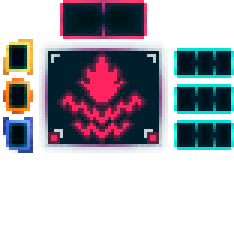
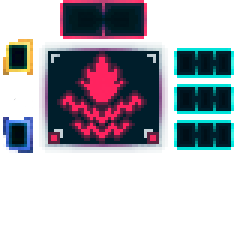
more bugs fixed and some images modified

Changed region(s): [[0.0, 0.3249, 0.1496, 0.5021]]

diff --git a/src/Views/Game.jsx b/src/Views/Game.jsx
@@ -113,7 +113,7 @@ export default function Game () {
     // Escenarios Nº7 ----------------------------------------------------------------------------------------------------------------------------------------
 
     const [scenario1] = useState(['Asset 7 n1 Fondo Completo.png', 'Asset 7 n1 Fondo scrolleable1.png', 'Asset 7 n1 Fondo scrolleable2.png', 'Asset 7 n1 Fondo Desplegables.png']);
-    const [scenario2] = useState(['Asset 7 n2 Fondo completo.png', 'Asset 7 n2 Fondo scrolleable1.png', 'Asset 7 n2 Fondo scrolleable2.png', 'Asset 7 n2 Fondo scrolleable3.png', 'Asset 7 n1 Fondo Desplegables.png']);
+    const [scenario2] = useState(['Asset 7 n2 Fondo completo.png', 'Asset 7 n2 Fondo scrolleable1.png', 'Asset 7 n2 Fondo scrolleable2.png', 'Asset 7 n2 Fondo scrolleable3.png', 'Asset 7 n1 Fondo Desplegables.png', "Asset 7 n2 Fondo.png"]);
     const [scenario3] = useState(['Asset 7 n3 Cinta superior.png', 'Asset 7 n3 Fondo scrolleable1.png', 'Asset 7 n3 Fondo scrolleable2.png', 'Asset 7 n3 Fondo scrolleable3.png', 'Asset 7 n3 Fondo scrolleable4.png', 'Asset 7 n3 Fondo scrolleable5.png', 'Asset 7 n3 Fondo scrolleable6.png', 'Asset 7 Barra de perfiles.png', 'Asset 7 n1 Fondo Desplegables.png']);
 
     const [scenarios] = useState([scenario1, scenario2, scenario3]);
@@ -354,6 +354,7 @@ export default function Game () {
     const [positionFromLeft5, setPositionFromLeft5] = useState(-1920);
     const [positionFromLeft6, setPositionFromLeft6] = useState(-1920);
     const [positionFromRight, setPositionFromRight] = useState(0);
+    const [positionFromRight2, setPositionFromRight2] = useState(0);
 
     useEffect(() => {
         const interval = setInterval(() => {
@@ -394,14 +395,20 @@ export default function Game () {
             }
 
             if (positionFromRight > -1920) {
-                setPositionFromRight(positionFromRight - 2);
+                setPositionFromRight(positionFromRight - 1);
             } else {
                 setPositionFromRight(0);
+            }
+
+            if (positionFromRight2 > -1920) {
+                setPositionFromRight2(positionFromRight2 - 2);
+            } else {
+                setPositionFromRight2(0);
             }
         }, 100);
 
         return () => clearInterval(interval);
-    }, [positionFromLeft1, positionFromLeft2, positionFromLeft3, positionFromLeft4, positionFromLeft5, positionFromLeft6, positionFromRight]);
+    }, [positionFromLeft1, positionFromLeft2, positionFromLeft3, positionFromLeft4, positionFromLeft5, positionFromLeft6, positionFromRight, positionFromRight2]);
 
     return (
         <div className='page-container' onMouseMove={changePosition} onClick={advanceArray}
@@ -442,7 +449,7 @@ export default function Game () {
                         style={{
                             position: 'absolute',
                             zIndex: '1',
-                            left: `${positionFromLeft1}px`
+                            left: `${positionFromRight}px`
                         }}
                     />
 
@@ -452,7 +459,7 @@ export default function Game () {
                         style={{
                             position: 'absolute',
                             zIndex: '2',
-                            left: `${positionFromRight}px`
+                            left: `${positionFromRight2}px`
                         }}
                     />
 
@@ -491,6 +498,16 @@ export default function Game () {
                         pointerEvents: 'none'
                     }}
                 >
+
+                    <img
+                        src={require('../Resources/Nº 7 Escenarios/'+scenarios[1][5])}
+                        alt='background22'
+                        style={{
+                            position: 'absolute',
+                            left: `0px`,
+                            zIndex: '0'
+                        }}
+                    />
 
                     <img
                         src={require('../Resources/Nº 7 Escenarios/'+scenarios[1][1])}
@@ -706,7 +723,7 @@ export default function Game () {
                     position: 'absolute',
                     top: '6px',
                     left: '12px',
-                    zIndex: '2',
+                    zIndex: '3',
                     cursor: 'pointer'
                 }}
                 onClick={() => {
@@ -738,7 +755,7 @@ export default function Game () {
                     position: 'absolute',
                     top: '6px',
                     left: '150px',
-                    zIndex: '2',
+                    zIndex: '3',
                     cursor: 'pointer'
                 }}
                 onClick={() => {
@@ -770,7 +787,7 @@ export default function Game () {
                     position: 'absolute',
                     top: '6px',
                     left: '288px',
-                    zIndex: '2',
+                    zIndex: '3',
                     cursor: 'pointer'
                 }}
                 onClick={() => {

diff --git a/src/Components/Armours.jsx b/src/Components/Armours.jsx
@@ -439,7 +439,7 @@ export default function Armours () {
 
             <div className='armours-5'
                 style={{
-                    backgroundImage: `url(${require('../Resources/Nº 15 Marcadores de armadura/Asset 15 nº 1 Base.png')})`,
+                    backgroundImage: `url(${require('../Resources/Nº 15 Marcadores de armadura/Asset 15 nº 1 Base2.png')})`,
                     backgroundSize: 'contain',
                     backgroundRepeat: 'no-repeat',
                     marginLeft: '231px',
@@ -509,7 +509,7 @@ export default function Armours () {
 
             <div className='armours-6'
                 style={{
-                    backgroundImage: `url(${require('../Resources/Nº 15 Marcadores de armadura/Asset 15 nº 1 Base.png')})`,
+                    backgroundImage: `url(${require('../Resources/Nº 15 Marcadores de armadura/Asset 15 nº 1 Base2.png')})`,
                     backgroundSize: 'contain',
                     backgroundRepeat: 'no-repeat',
                     marginLeft: '204px',
@@ -579,7 +579,7 @@ export default function Armours () {
 
             <div className='armours-7'
                 style={{
-                    backgroundImage: `url(${require('../Resources/Nº 15 Marcadores de armadura/Asset 15 nº 1 Base.png')})`,
+                    backgroundImage: `url(${require('../Resources/Nº 15 Marcadores de armadura/Asset 15 nº 1 Base2.png')})`,
                     backgroundSize: 'contain',
                     backgroundRepeat: 'no-repeat',
                     marginLeft: '204px',
@@ -649,7 +649,7 @@ export default function Armours () {
 
             <div className='armours-8'
                 style={{
-                    backgroundImage: `url(${require('../Resources/Nº 15 Marcadores de armadura/Asset 15 nº 1 Base.png')})`,
+                    backgroundImage: `url(${require('../Resources/Nº 15 Marcadores de armadura/Asset 15 nº 1 Base2.png')})`,
                     backgroundSize: 'contain',
                     backgroundRepeat: 'no-repeat',
                     marginLeft: '204px',
